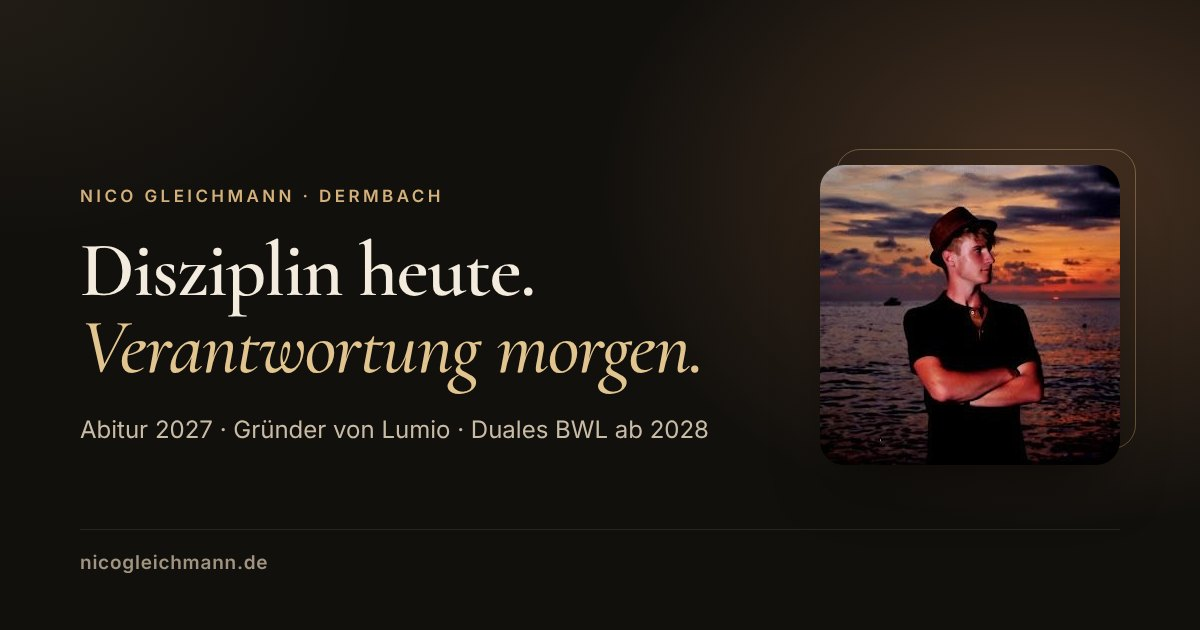
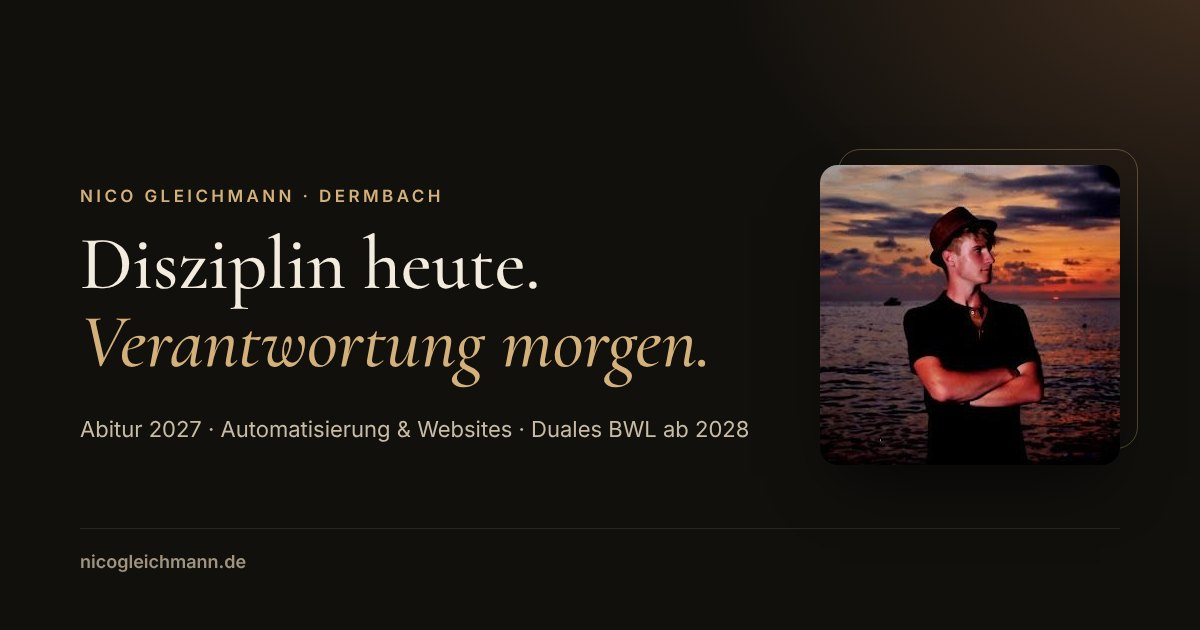
Lumio entfernt, neue E-Mail-Adresse kontakt@nicogleichmann.de
- Alle Erwähnungen von „Lumio“ durch den eigenen Namen bzw. „Mein Angebot“ ersetzt
  (Titel, Beschreibung, JSON-LD, Navigation, Abschnitt „Unternehmen“, Kontakt, Footer, 404, README)
- Abschnitt Unternehmen: Websites als vierter Punkt, Überschrift = Slogan
- E-Mail auf kontakt@nicogleichmann.de umgestellt (Startseite, Impressum, Datenschutz)
- Datenschutz: Weiterleitung über Cloudflare Email Routing ergänzt
- Logo-Links: zugänglicher Name beginnt mit dem sichtbaren Text „NG“
- OG-Bild ohne „Lumio“ neu erzeugt

Claude-Session: https://claude.ai/code/session_0164jEaio29xKSTDzuBDvEnu

diff --git a/index.html b/index.html
@@ -3,10 +3,10 @@
   <head>
     <meta charset="UTF-8" />
     <meta name="viewport" content="width=device-width, initial-scale=1" />
-    <title>Nico Gleichmann – Gründer von Lumio · Dermbach, Thüringen</title>
+    <title>Nico Gleichmann – Automatisierung &amp; Websites · Dermbach, Thüringen</title>
     <meta
       name="description"
-      content="Nico Gleichmann, 18, aus Dermbach: Abitur 2027, Gründer von Lumio für KI-Automatisierung kleiner Betriebe, ab April 2028 duales BWL-Studium in Nürnberg."
+      content="Nico Gleichmann, 18, aus Dermbach: Abitur 2027, eigenes Unternehmen für KI-Automatisierung und Websites kleiner Betriebe, ab April 2028 duales BWL-Studium in Nürnberg."
     />
     <link rel="canonical" href="https://nicogleichmann.de/" />
     <meta name="theme-color" content="#12100d" />
@@ -18,7 +18,7 @@
     <meta property="og:title" content="Nico Gleichmann – Disziplin heute. Verantwortung morgen." />
     <meta
       property="og:description"
-      content="18, aus Dermbach. Abitur 2027, Gründer von Lumio, ab April 2028 duales BWL-Studium in Nürnberg."
+      content="18, aus Dermbach. Abitur 2027, eigenes Unternehmen für KI-Automatisierung und Websites, ab April 2028 duales BWL-Studium in Nürnberg."
     />
     <meta property="og:url" content="https://nicogleichmann.de/" />
     <meta property="og:image" content="https://nicogleichmann.de/og-image.jpg" />
@@ -63,8 +63,9 @@
           "addressCountry": "DE"
         },
         "worksFor": {
-          "@type": "Organization",
-          "name": "Lumio",
+          "@type": "ProfessionalService",
+          "@id": "https://automatisierung.nicogleichmann.de/#unternehmen",
+          "name": "Nico Gleichmann – KI-Automatisierung & Websites",
           "url": "https://automatisierung.nicogleichmann.de/"
         },
         "knowsAbout": ["Automatisierung", "KI-Agents", "n8n", "Make", "Webentwicklung"]
@@ -77,7 +78,7 @@
 
     <header class="site-header">
       <div class="container header-inner">
-        <a href="#top" class="logo" aria-label="Nico Gleichmann – zum Seitenanfang">NG</a>
+        <a href="#top" class="logo" aria-label="NG – Nico Gleichmann, zum Seitenanfang">NG</a>
         <button
           class="nav-toggle"
           type="button"
@@ -91,7 +92,7 @@
         <nav id="hauptnavigation" class="site-nav" aria-label="Hauptnavigation">
           <a href="#ueber-mich">Über mich</a>
           <a href="#jetzt">Jetzt</a>
-          <a href="#lumio">Lumio</a>
+          <a href="#unternehmen">Unternehmen</a>
           <a href="#weg">Weg</a>
           <a href="#werte">Werte</a>
           <a href="#kontakt" class="site-nav-cta">Kontakt</a>
@@ -110,13 +111,13 @@
               <em>Verantwortung morgen.</em>
             </h1>
             <p class="hero-lead">
-              Ich bin 18, mache 2027 mein Abitur und baue mit Lumio mein eigenes Unternehmen auf:
-              Automatisierungen und KI-Assistenten, die kleinen Betrieben in meiner Region Büroarbeit
-              abnehmen.
+              Ich bin 18, mache 2027 mein Abitur und baue mein eigenes Unternehmen auf:
+              Automatisierungen, KI-Assistenten und Websites, die kleinen Betrieben in meiner Region
+              Büroarbeit abnehmen.
             </p>
             <div class="hero-actions">
               <a class="btn btn-primary" href="https://automatisierung.nicogleichmann.de/">
-                Zu Lumio
+                Zu meinem Angebot
                 <svg class="icon" viewBox="0 0 24 24" aria-hidden="true" focusable="false">
                   <path d="M7 17 17 7M9 7h8v8" />
                 </svg>
@@ -181,7 +182,7 @@
               </p>
               <p>
                 Automatisierung und KI-Agents habe ich mir neben der Schule selbst beigebracht. Daraus
-                ist Lumio entstanden. Ich denke in Etappen, lerne konsequent weiter und setze auf
+                ist mein Unternehmen entstanden. Ich denke in Etappen, lerne konsequent weiter und setze auf
                 stetige Verbesserung statt auf kurzfristige Trends.
               </p>
             </div>
@@ -241,7 +242,7 @@
                 <circle cx="12" cy="12" r="3.5" />
                 <path d="M12 2v3M12 19v3M2 12h3M19 12h3M4.9 4.9 7 7M17 17l2.1 2.1M4.9 19.1 7 17M17 7l2.1-2.1" />
               </svg>
-              <h3>Lumio aufbauen</h3>
+              <h3>Mein Unternehmen aufbauen</h3>
               <p>
                 Neben der Schule baue ich Automatisierungen mit n8n und Make und entwickle Demo-Systeme
                 für kleine Betriebe, vom Friseursalon bis zum Handwerksbetrieb.
@@ -262,15 +263,15 @@
         </div>
       </section>
 
-      <!-- ===== Lumio ===== -->
-      <section id="lumio" class="section" aria-labelledby="lumio-titel">
+      <!-- ===== Unternehmen ===== -->
+      <section id="unternehmen" class="section" aria-labelledby="unternehmen-titel">
         <div class="container">
           <div class="feature reveal">
             <div class="feature-copy">
               <p class="eyebrow">Mein Unternehmen</p>
-              <h2 id="lumio-titel">
-                Lumio
-                <span class="feature-slogan">Weniger Büro. Mehr Betrieb.</span>
+              <h2 id="unternehmen-titel">
+                Weniger Büro. Mehr Betrieb.
+                <span class="feature-slogan">KI-Automatisierung &amp; Websites</span>
               </h2>
               <p class="feature-text">
                 Viele kleine Betriebe verlieren Aufträge, weil Anfragen liegen bleiben oder Termine
@@ -279,12 +280,12 @@
                 Preisen.
               </p>
               <p class="feature-text">
-                Mit Lumio richte ich Automatisierungen und KI-Assistenten für Handwerk, Friseure,
+                Ich richte Automatisierungen, KI-Assistenten und Websites für Handwerk, Friseure,
                 Makler, Studios und Coaches ein. Und wenn sich eine Lösung für einen Betrieb nicht
                 lohnt, sage ich das auch.
               </p>
               <a class="btn btn-primary" href="https://automatisierung.nicogleichmann.de/">
-                Lumio ansehen
+                Zum Angebot
                 <svg class="icon" viewBox="0 0 24 24" aria-hidden="true" focusable="false">
                   <path d="M7 17 17 7M9 7h8v8" />
                 </svg>
@@ -314,6 +315,13 @@
                   für den Steuerberater.
                 </p>
               </li>
+              <li>
+                <h3>Online gefunden werden</h3>
+                <p>
+                  Eine schlanke Website und ein gepflegtes Google-Profil, über die Kunden direkt anfragen
+                  oder einen Termin buchen.
+                </p>
+              </li>
             </ul>
           </div>
         </div>
@@ -339,7 +347,7 @@
             </li>
             <li class="timeline-item is-current reveal">
               <p class="timeline-date">2026 · <strong>heute</strong></p>
-              <h3>Abiturphase und Aufbau von Lumio</h3>
+              <h3>Abiturphase und Aufbau meines Unternehmens</h3>
               <p>Schule mit klarer Priorität, daneben das eigene Unternehmen.</p>
             </li>
             <li class="timeline-item reveal">
@@ -419,28 +427,28 @@
               persönlich.
             </p>
             <div class="contact-actions">
-              <a class="btn btn-primary" href="mailto:nicogleichmann1@gmail.com">
+              <a class="btn btn-primary" href="mailto:kontakt@nicogleichmann.de">
                 <svg class="icon" viewBox="0 0 24 24" aria-hidden="true" focusable="false">
                   <rect x="3" y="5" width="18" height="14" rx="2" />
                   <path d="m3.5 6.5 8.5 6.5 8.5-6.5" />
                 </svg>
-                nicogleichmann1@gmail.com
+                <!--email_off-->kontakt@nicogleichmann.de<!--/email_off-->
               </a>
-              <button class="btn btn-ghost copy-email" type="button" data-email="nicogleichmann1@gmail.com" hidden>
+              <button class="btn btn-ghost copy-email" type="button" data-email="kontakt@nicogleichmann.de" hidden>
                 Adresse kopieren
               </button>
             </div>
             <p class="copy-feedback" role="status" aria-live="polite"></p>
           </div>
 
-          <aside class="contact-side" aria-labelledby="kontakt-lumio-titel">
-            <h3 id="kontakt-lumio-titel">Du hast einen Betrieb und zu viel Büroarbeit?</h3>
+          <aside class="contact-side" aria-labelledby="kontakt-betrieb-titel">
+            <h3 id="kontakt-betrieb-titel">Du hast einen Betrieb und zu viel Büroarbeit?</h3>
             <p>
-              Dann buch über Lumio ein kostenloses 15-Minuten-Gespräch. Wir schauen gemeinsam, wo dein
-              Betrieb Zeit verliert.
+              Dann buch ein kostenloses 15-Minuten-Gespräch. Wir schauen gemeinsam, wo dein Betrieb
+              Zeit verliert.
             </p>
             <a class="text-link" href="https://automatisierung.nicogleichmann.de/#kontakt">
-              Zum Erstgespräch bei Lumio
+              Zum kostenlosen Erstgespräch
               <svg class="icon" viewBox="0 0 24 24" aria-hidden="true" focusable="false">
                 <path d="M5 12h14M13 6l6 6-6 6" />
               </svg>
@@ -454,7 +462,7 @@
       <div class="container footer-inner">
         <p>© <span class="current-year">2026</span> Nico Gleichmann</p>
         <nav class="footer-nav" aria-label="Rechtliches und Links">
-          <a href="https://automatisierung.nicogleichmann.de/">Lumio</a>
+          <a href="https://automatisierung.nicogleichmann.de/">Mein Angebot</a>
           <a href="impressum.html">Impressum</a>
           <a href="datenschutz.html">Datenschutz</a>
         </nav>

diff --git a/datenschutz.html b/datenschutz.html
@@ -18,7 +18,7 @@
 
     <header class="site-header">
       <div class="container header-inner">
-        <a href="index.html" class="logo" aria-label="Nico Gleichmann – zur Startseite">NG</a>
+        <a href="index.html" class="logo" aria-label="NG – Nico Gleichmann, zur Startseite">NG</a>
         <a class="text-link" href="index.html">Zur Startseite</a>
       </div>
     </header>
@@ -55,7 +55,7 @@
           </address>
           <p>
             Telefon: <a href="tel:+4917644444856">+49&nbsp;176&nbsp;44444856</a><br />
-            E-Mail: <a href="mailto:nicogleichmann1@gmail.com">nicogleichmann1@gmail.com</a>
+            E-Mail: <a href="mailto:kontakt@nicogleichmann.de"><!--email_off-->kontakt@nicogleichmann.de<!--/email_off--></a>
           </p>
 
           <h2>3. Hosting und Server-Daten</h2>
@@ -116,14 +116,16 @@
             gesetzlichen Aufbewahrungspflichten entgegenstehen.
           </p>
           <p>
-            Für E-Mails nutze ich den Dienst Gmail der Google Ireland Limited, Gordon House, Barrow
+            E-Mails an kontakt@nicogleichmann.de werden über den Dienst „Email Routing“ der Cloudflare, Inc. (siehe
+            Abschnitt 3) an mein E-Mail-Postfach weitergeleitet. Für Empfang, Versand und Speicherung
+            von E-Mails nutze ich den Dienst Gmail der Google Ireland Limited, Gordon House, Barrow
             Street, Dublin 4, Irland. Ihre Nachricht wird dort gespeichert. Weitere Informationen:
             <a href="https://policies.google.com/privacy?hl=de">Datenschutzerklärung von Google</a>.
           </p>
 
           <h2>7. Links zu anderen Websites</h2>
           <p>
-            Diese Website enthält Links, unter anderem zu meinem Angebot Lumio unter
+            Diese Website enthält Links, unter anderem zu meinem Angebot unter
             automatisierung.nicogleichmann.de. Erst wenn Sie einen Link anklicken, verlassen Sie diese
             Website. Für die verlinkte Seite gilt deren eigene Datenschutzerklärung.
           </p>
@@ -170,7 +172,7 @@
       <div class="container footer-inner">
         <p>© 2026 Nico Gleichmann</p>
         <nav class="footer-nav" aria-label="Rechtliches und Links">
-          <a href="https://automatisierung.nicogleichmann.de/">Lumio</a>
+          <a href="https://automatisierung.nicogleichmann.de/">Mein Angebot</a>
           <a href="impressum.html">Impressum</a>
           <a href="datenschutz.html" aria-current="page">Datenschutz</a>
         </nav>

diff --git a/impressum.html b/impressum.html
@@ -18,7 +18,7 @@
 
     <header class="site-header">
       <div class="container header-inner">
-        <a href="index.html" class="logo" aria-label="Nico Gleichmann – zur Startseite">NG</a>
+        <a href="index.html" class="logo" aria-label="NG – Nico Gleichmann, zur Startseite">NG</a>
         <a class="text-link" href="index.html">Zur Startseite</a>
       </div>
     </header>
@@ -45,7 +45,7 @@
           <h2>Kontakt</h2>
           <p>
             Telefon: <a href="tel:+4917644444856">+49&nbsp;176&nbsp;44444856</a><br />
-            E-Mail: <a href="mailto:nicogleichmann1@gmail.com">nicogleichmann1@gmail.com</a>
+            E-Mail: <a href="mailto:kontakt@nicogleichmann.de"><!--email_off-->kontakt@nicogleichmann.de<!--/email_off--></a>
           </p>
 
           <h2>Verbraucher&shy;streit&shy;beilegung/Universal&shy;schlichtungs&shy;stelle</h2>
@@ -72,7 +72,7 @@
       <div class="container footer-inner">
         <p>© 2026 Nico Gleichmann</p>
         <nav class="footer-nav" aria-label="Rechtliches und Links">
-          <a href="https://automatisierung.nicogleichmann.de/">Lumio</a>
+          <a href="https://automatisierung.nicogleichmann.de/">Mein Angebot</a>
           <a href="impressum.html" aria-current="page">Impressum</a>
           <a href="datenschutz.html">Datenschutz</a>
         </nav>

diff --git a/404.html b/404.html
@@ -16,7 +16,7 @@
   <body>
     <header class="site-header">
       <div class="container header-inner">
-        <a href="/" class="logo" aria-label="Nico Gleichmann – zur Startseite">NG</a>
+        <a href="/" class="logo" aria-label="NG – Nico Gleichmann, zur Startseite">NG</a>
         <a class="text-link" href="/">Zur Startseite</a>
       </div>
     </header>
@@ -27,7 +27,7 @@
       <p>Vielleicht hat sich die Adresse geändert, oder sie war nie richtig. Der Weg zurück ist kurz.</p>
       <div class="hero-actions">
         <a class="btn btn-primary" href="/">Zur Startseite</a>
-        <a class="btn btn-ghost" href="https://automatisierung.nicogleichmann.de/">Zu Lumio</a>
+        <a class="btn btn-ghost" href="https://automatisierung.nicogleichmann.de/">Zu meinem Angebot</a>
       </div>
     </main>
 

diff --git a/styles.css b/styles.css
@@ -661,7 +661,7 @@ svg {
   margin-top: 0.6rem;
 }
 
-/* ---------- Lumio ---------- */
+/* ---------- Unternehmen ---------- */
 .feature {
   display: grid;
   grid-template-columns: minmax(0, 1.1fr) minmax(0, 0.9fr);

diff --git a/README.md b/README.md
@@ -1,7 +1,7 @@
 # nicogleichmann.de
 
 Persönliche Website von Nico Gleichmann – Hauptseite der Domain `nicogleichmann.de`.
-Die Business-Seite **Lumio** läuft getrennt unter `automatisierung.nicogleichmann.de` (Repo `Business_Website`) und ist von hier aus verlinkt.
+Die Business-Seite (KI-Automatisierung & Websites) läuft getrennt unter `automatisierung.nicogleichmann.de` (Repo `Business_Website`) und ist von hier aus verlinkt.
 
 - **Technik:** reines HTML, CSS und JavaScript – kein Build-Schritt, keine Abhängigkeiten
 - **Datenschutzfreundlich:** keine Cookies, kein Tracking, keine externen Dienste, Schriften lokal
@@ -12,7 +12,7 @@ Die Business-Seite **Lumio** läuft getrennt unter `automatisierung.nicogleichma
 | Datei / Ordner          | Inhalt                                                             |
 | ----------------------- | ------------------------------------------------------------------ |
 | `index.html`            | Startseite mit allen Texten                                        |
-| `impressum.html`        | Impressum (gleiche Angaben wie bei Lumio)                          |
+| `impressum.html`        | Impressum (gleiche Angaben wie auf der Business-Seite)             |
 | `datenschutz.html`      | Datenschutzerklärung                                               |
 | `404.html`              | Fehlerseite (Cloudflare zeigt sie automatisch an)                  |
 | `styles.css`            | Gestaltung; Farben und Schriften als Variablen ganz oben           |
@@ -50,7 +50,7 @@ Einmalig, wenn die Nameserver von `nicogleichmann.de` bei INWX schon auf Cloudfl
 
 Ab dann geht jede Änderung auf `main` automatisch nach ein bis zwei Minuten online.
 
-Für Lumio legst du im selben Konto ein **zweites** Pages-Projekt mit dem Repo `Business_Website` an
+Für die Business-Seite legst du im selben Konto ein **zweites** Pages-Projekt mit dem Repo `Business_Website` an
 (Domain `automatisierung.nicogleichmann.de`, Einstellungen siehe README dort).
 
 ### Wichtig für den Datenschutz
